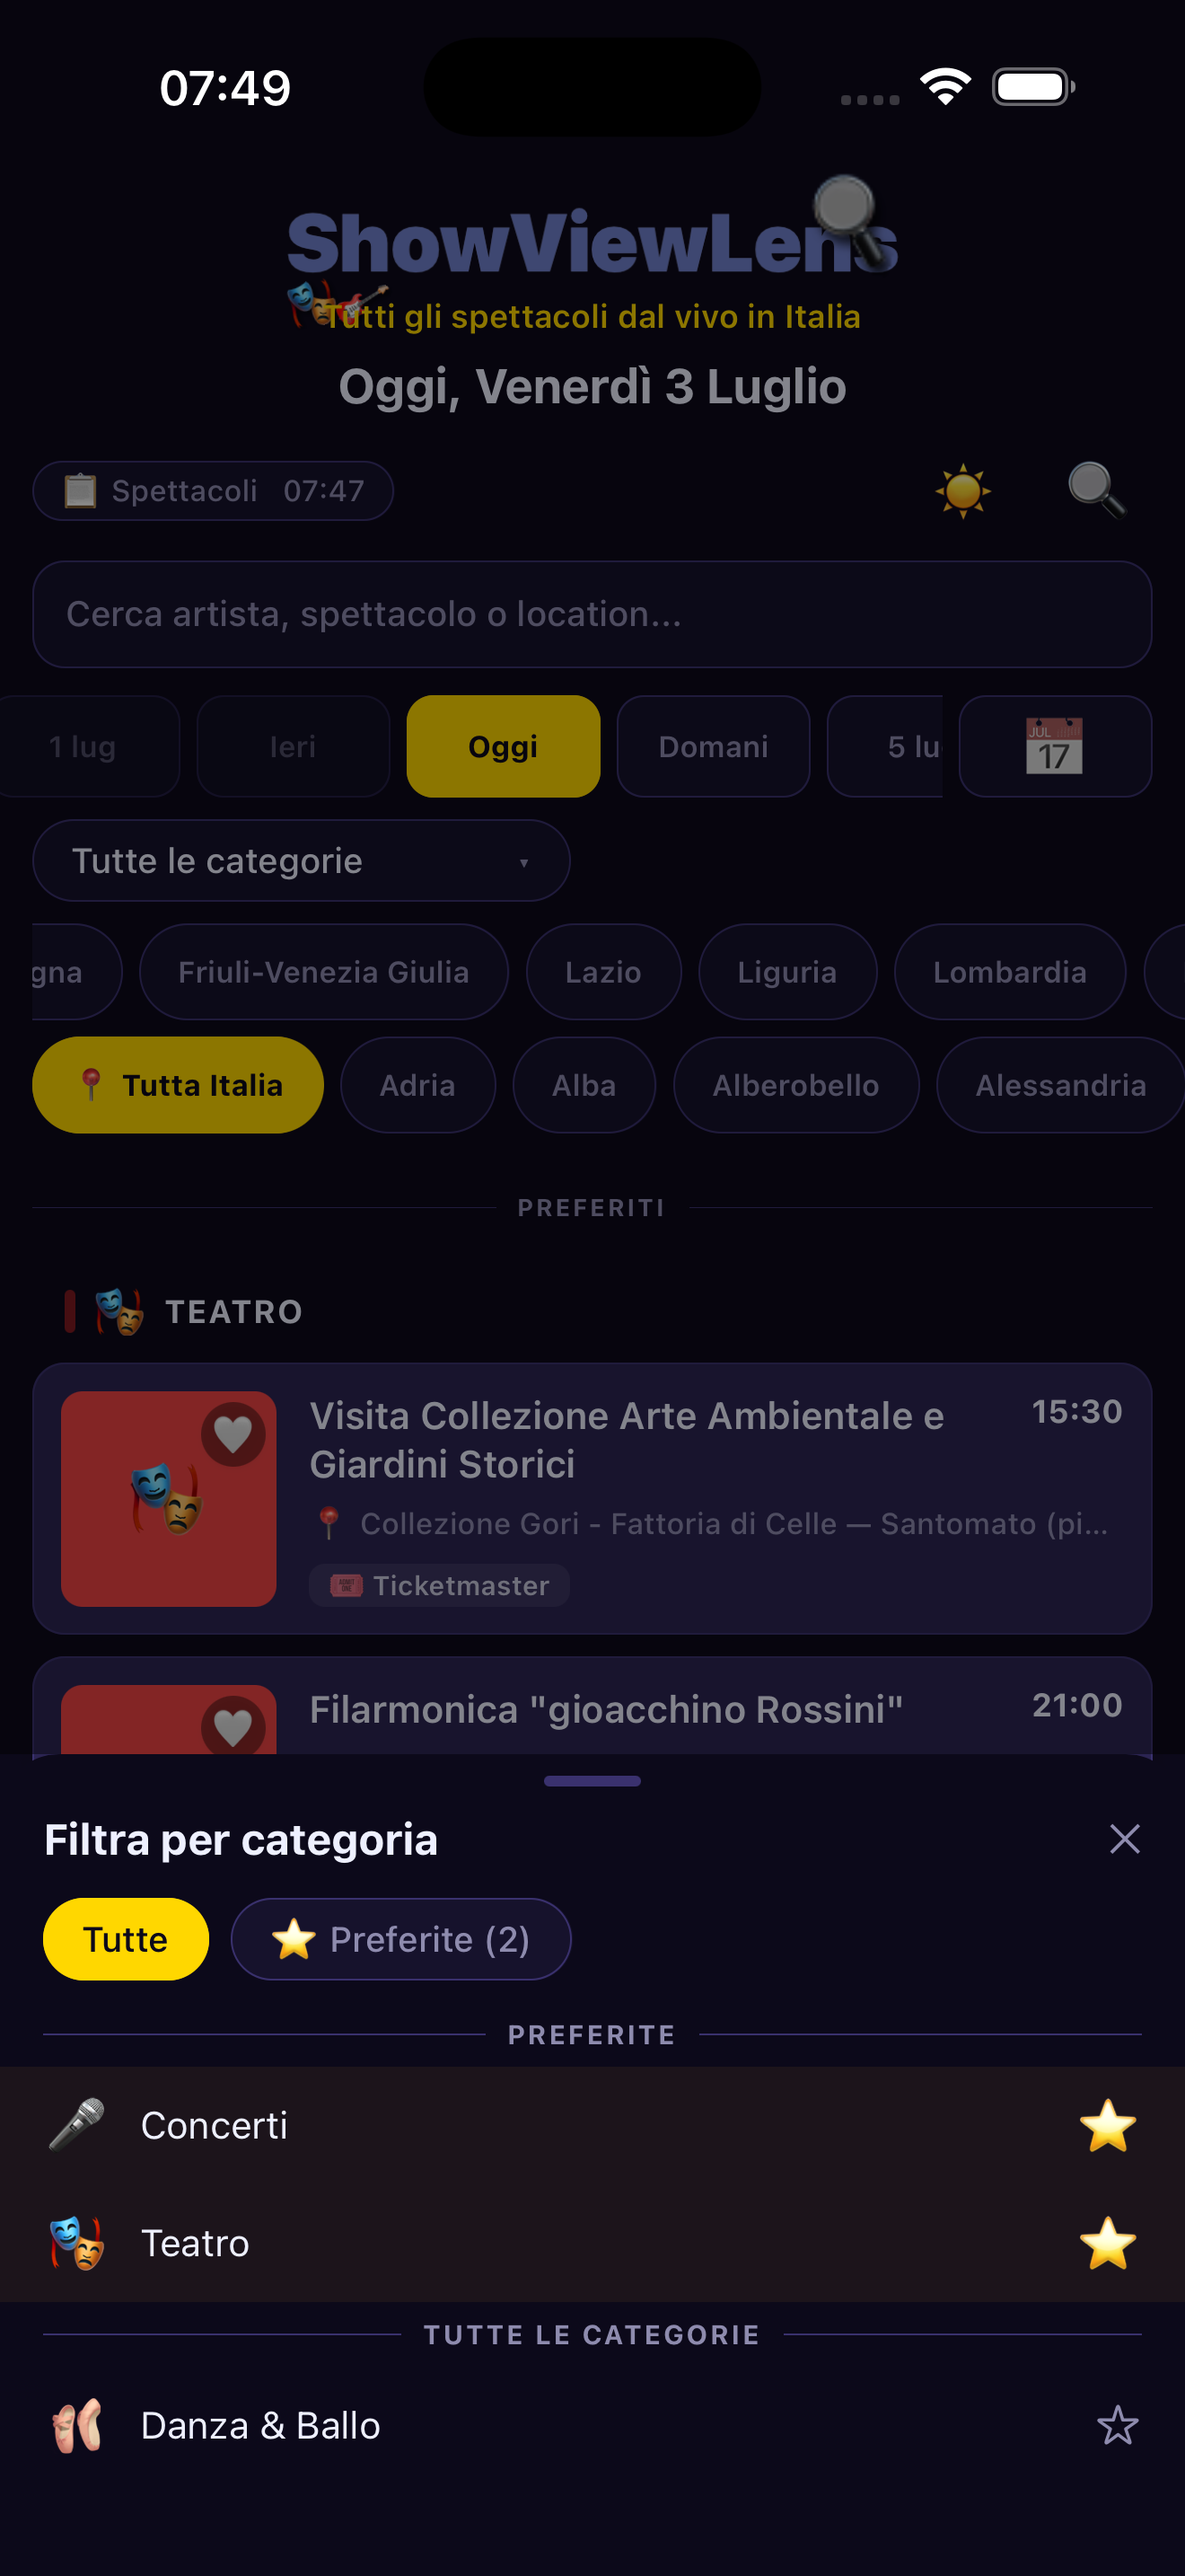
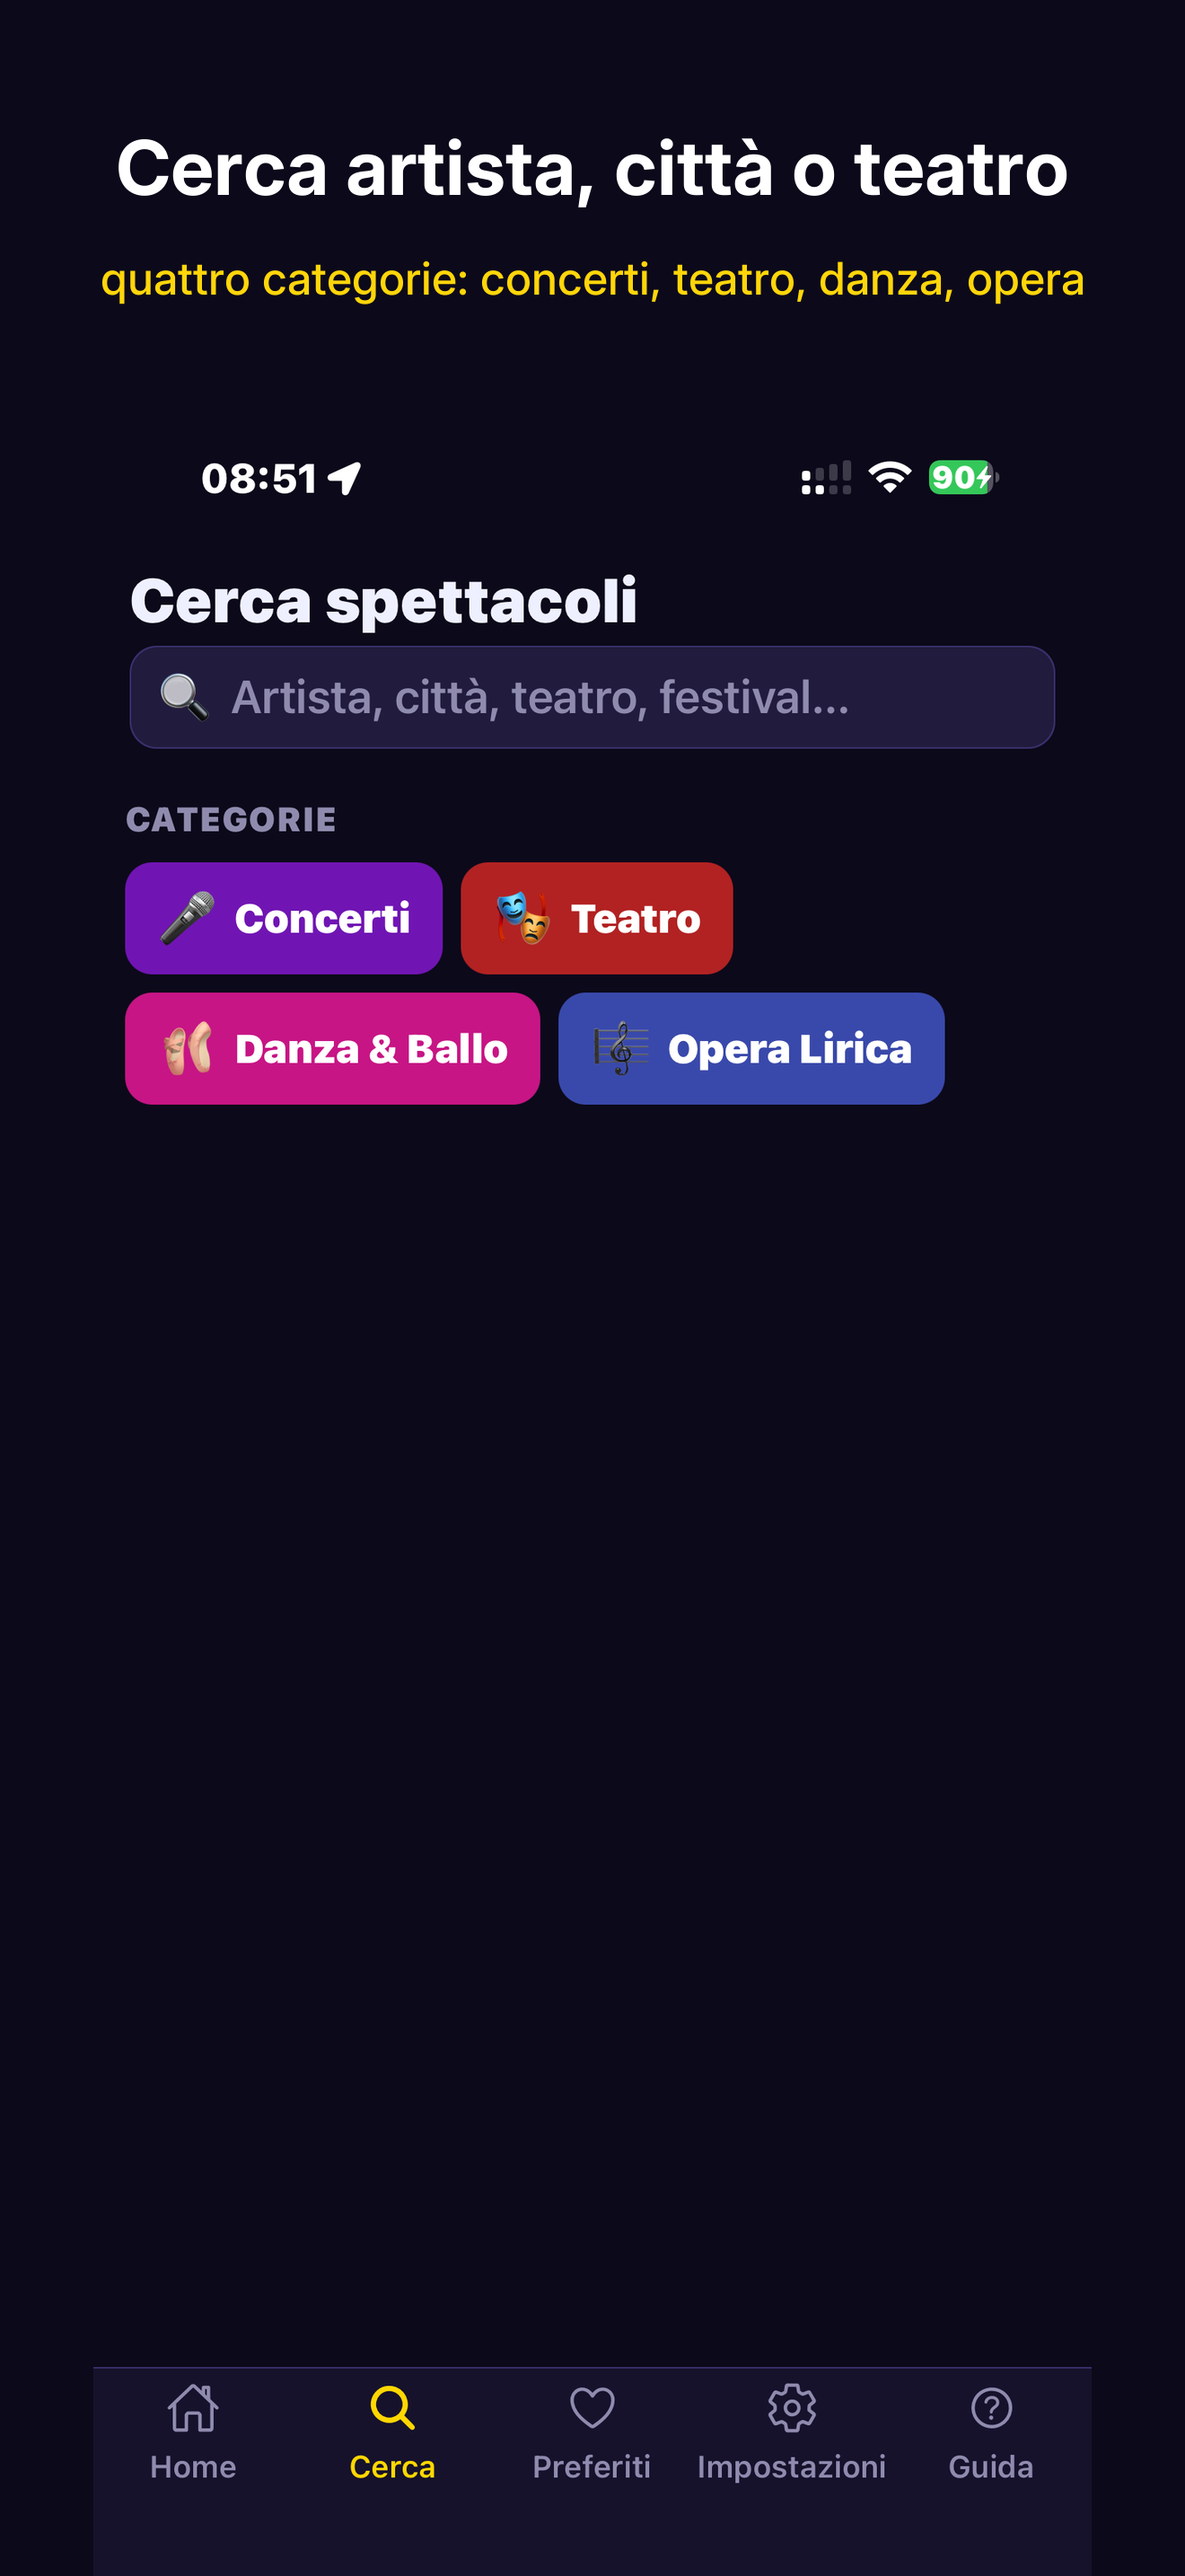
showviewlens: pagina /download e testi senza promesse false

diff --git a/showviewlens/download/index.html b/showviewlens/download/index.html
@@ -1,0 +1,110 @@
+<!DOCTYPE html>
+<html lang="it">
+<head>
+<meta charset="UTF-8">
+<meta name="viewport" content="width=device-width, initial-scale=1">
+<title>Scarica ShowViewLens</title>
+<meta name="description" content="ShowViewLens: concerti, teatro, danza e opera in Italia, con il link alla biglietteria ufficiale. Gratis su App Store e Google Play.">
+<meta name="robots" content="noindex">
+<meta property="og:title" content="Scarica ShowViewLens">
+<meta property="og:description" content="Concerti, teatro, danza e opera in Italia, con il link alla biglietteria ufficiale. Gratis.">
+<meta property="og:image" content="https://maxegon.github.io/showviewlens/icon.png">
+<meta property="og:url" content="https://maxegon.github.io/showviewlens/download/">
+<script>
+/*
+  Pagina /download di ShowViewLens (preparata il 23/10/2026 sul branch marketing-download, NON pubblicata).
+  - Telefono iOS/Android: reindirizza subito allo store, inoltrando la campagna.
+  - Desktop: badge ufficiali + QR (qr.png generato con CoreImage di macOS e verificato in decodifica;
+    punta a questa pagina con utm_source=qr).
+  - UTM -> link di campagna degli store:
+      App Store:  ?pt=<APPSTORE_PROVIDER_TOKEN>&ct=<utm_campaign>_<utm_content> (max 40 caratteri),
+                  in App Store Connect > Analytics > Acquisizione > Link di campagna.
+      Google Play: &referrer=utm_source%3D..%26utm_medium%3D..%26utm_campaign%3D..%26utm_content%3D..,
+                  in Play Console > Statistiche (acquisizioni per campagna UTM).
+  - Conteggio visite: GitHub Pages non ha statistiche. Proposta senza migrazioni DB: BEACON_URL verso un
+    endpoint da aggiungere al backend Express esistente su Railway (es. GET /r/landing) che scrive una riga
+    di log JSON {utm_*, piattaforma} (log Railway) e tiene un contatore in memoria esposto in /monitor/report.
+    Finche BEACON_URL e vuota non parte nessuna chiamata. In ogni caso restano i dati di campagna degli
+    store (installazioni per ct/referrer), che sono il numero che conta.
+*/
+(function () {
+  var APPSTORE_PROVIDER_TOKEN = ''; // DA COMPILARE: Provider ID (pt) di App Store Connect
+  var BEACON_URL = '';              // DA COMPILARE solo quando esiste l'endpoint del backend
+  var IOS = 'https://apps.apple.com/it/app/showviewlens/id6787447330';
+  var ANDROID = 'https://play.google.com/store/apps/details?id=com.showviewlens.app';
+
+  var q = new URLSearchParams(window.location.search);
+  function clean(v, max) { return (v || '').replace(/[^A-Za-z0-9_.-]/g, '').slice(0, max || 80); }
+  var utm = {
+    source: clean(q.get('utm_source')) || 'diretto',
+    medium: clean(q.get('utm_medium')) || 'nessuno',
+    campaign: clean(q.get('utm_campaign')) || 'nessuna',
+    content: clean(q.get('utm_content'))
+  };
+
+  var ct = clean(utm.campaign + (utm.content ? '_' + utm.content : ''), 40);
+  var iosUrl = IOS + '?mt=8' + (APPSTORE_PROVIDER_TOKEN ? '&pt=' + encodeURIComponent(APPSTORE_PROVIDER_TOKEN) + '&ct=' + encodeURIComponent(ct) : '');
+  var referrer = 'utm_source=' + utm.source + '&utm_medium=' + utm.medium + '&utm_campaign=' + utm.campaign + (utm.content ? '&utm_content=' + utm.content : '');
+  var androidUrl = ANDROID + '&referrer=' + encodeURIComponent(referrer);
+
+  var ua = navigator.userAgent || '';
+  var isIOS = /iPad|iPhone|iPod/.test(ua) || (navigator.platform === 'MacIntel' && navigator.maxTouchPoints > 1);
+  var isAndroid = /android/i.test(ua);
+  var platform = isIOS ? 'ios' : (isAndroid ? 'android' : 'desktop');
+
+  if (BEACON_URL) {
+    try {
+      var b = BEACON_URL + '?p=' + platform + '&s=' + utm.source + '&m=' + utm.medium + '&c=' + utm.campaign + '&k=' + utm.content;
+      if (navigator.sendBeacon) navigator.sendBeacon(b); else new Image().src = b;
+    } catch (e) {}
+  }
+
+  if (isIOS) { window.location.replace(iosUrl); return; }
+  if (isAndroid) { window.location.replace(androidUrl); return; }
+
+  document.addEventListener('DOMContentLoaded', function () {
+    document.getElementById('ios').href = iosUrl;
+    document.getElementById('android').href = androidUrl;
+  });
+})();
+</script>
+<style>
+  * { box-sizing: border-box; margin: 0; padding: 0; }
+  body {
+    font-family: Inter, -apple-system, BlinkMacSystemFont, 'Segoe UI', Roboto, Helvetica, Arial, sans-serif;
+    background: linear-gradient(180deg, #0B0E1B 0%, #151A33 100%);
+    color: #F3F4F8; min-height: 100vh; display: flex; align-items: center; justify-content: center; padding: 24px;
+  }
+  main { max-width: 760px; width: 100%; display: grid; grid-template-columns: 1fr auto; gap: 40px; align-items: center; }
+  .icon { width: 96px; height: 96px; border-radius: 22px; margin-bottom: 24px; }
+  h1 { font-size: 44px; line-height: 1.1; font-weight: 800; letter-spacing: -0.5px; margin-bottom: 14px; }
+  .lead { font-size: 19px; color: #AEB5CC; line-height: 1.5; margin-bottom: 28px; }
+  .badges { display: flex; gap: 16px; flex-wrap: wrap; align-items: center; background: #F3F4F8; border-radius: 18px; padding: 14px; width: fit-content; }
+  .badges img { height: 52px; width: auto; display: block; }
+  .qr { background: #F3F4F8; border-radius: 18px; padding: 18px; text-align: center; color: #0B0E1B; }
+  .qr img { width: 200px; height: 200px; display: block; image-rendering: pixelated; }
+  .qr p { font-size: 15px; font-weight: 600; margin-top: 10px; }
+  .note { font-size: 14px; color: #AEB5CC; margin-top: 22px; }
+  .gold { color: #F5C542; }
+  @media (max-width: 680px) { main { grid-template-columns: 1fr; } .qr { display: none; } h1 { font-size: 34px; } }
+</style>
+</head>
+<body>
+<main>
+  <section>
+    <img class="icon" src="../icon.png" alt="Icona di ShowViewLens">
+    <h1>Scarica <span class="gold">ShowViewLens</span></h1>
+    <p class="lead">Concerti, teatro, danza e opera in Italia, giorno per giorno, con il link alla biglietteria ufficiale. Gratis.</p>
+    <div class="badges">
+      <a id="ios" href="https://apps.apple.com/it/app/showviewlens/id6787447330"><img src="badge_appstore_it.png" alt="Scarica su App Store"></a>
+      <a id="android" href="https://play.google.com/store/apps/details?id=com.showviewlens.app"><img src="badge_googleplay_it.png" alt="Disponibile su Google Play"></a>
+    </div>
+    <p class="note">ShowViewLens non vende biglietti: ti porta alla biglietteria ufficiale. Non è affiliata alle biglietterie.</p>
+  </section>
+  <aside class="qr">
+    <img src="qr.png" alt="QR code per scaricare ShowViewLens dal telefono">
+    <p>Inquadra con il telefono</p>
+  </aside>
+</main>
+</body>
+</html>

diff --git a/showviewlens/index.html b/showviewlens/index.html
@@ -4,12 +4,12 @@
   <meta charset="UTF-8" />
   <meta name="viewport" content="width=device-width, initial-scale=1.0" />
   <title>ShowViewLens — Scarica l'App</title>
-  <meta name="description" content="Scarica ShowViewLens per iOS e Android. Guida agli Spettacoli dal Vivo in Italia. Concerti, Teatro, Musical e Danza con link ai circuiti di biglietteria ufficiali." />
+  <meta name="description" content="Scarica ShowViewLens per iOS e Android: concerti, teatro, danza e opera lirica in Italia, giorno per giorno, con il link alla biglietteria ufficiale." />
   
   <!-- Open Graph / Meta Social -->
   <meta property="og:type" content="website" />
   <meta property="og:title" content="ShowViewLens — Guida Spettacoli dal Vivo & Concerti" />
-  <meta property="og:description" content="Tutti i concerti, spettacoli teatrali e musical in Italia con link diretti a TicketOne, Vivaticket e Ticketmaster. Disponibile gratis per iPhone e Android." />
+  <meta property="og:description" content="Concerti, teatro, danza e opera lirica in Italia con il link alla biglietteria ufficiale (TicketOne, Vivaticket, Ticketmaster e altre). Gratis per iPhone e Android." />
   <meta property="og:image" content="https://maxegon.github.io/showviewlens/icon.png" />
   <meta property="og:url" content="https://maxegon.github.io/showviewlens/" />
 
@@ -128,7 +128,7 @@
   <div class="card">
     <img class="app-icon" src="icon.png" alt="ShowViewLens Icon" />
     <h1>ShowViewLens</h1>
-    <p class="tagline">Guida Spettacoli dal Vivo & Concerti.<br>Tutti gli spettacoli a teatro, concerti e musical con link alle biglietterie ufficiali.</p>
+    <p class="tagline">Spettacoli dal vivo in Italia.<br>Concerti, teatro, danza e opera lirica, giorno per giorno, con il link alla biglietteria ufficiale.</p>
 
     <div class="btn-container">
       <a class="btn btn-apple" href="https://apps.apple.com/it/app/showviewlens/id6787447330">
@@ -145,7 +145,7 @@
       </a>
     </div>
 
-    <p class="hint">Gratis su tutti i tuoi dispositivi iOS e Android</p>
+    <p class="hint">Gratis per iPhone e Android</p>
   </div>
 </body>
 </html>
